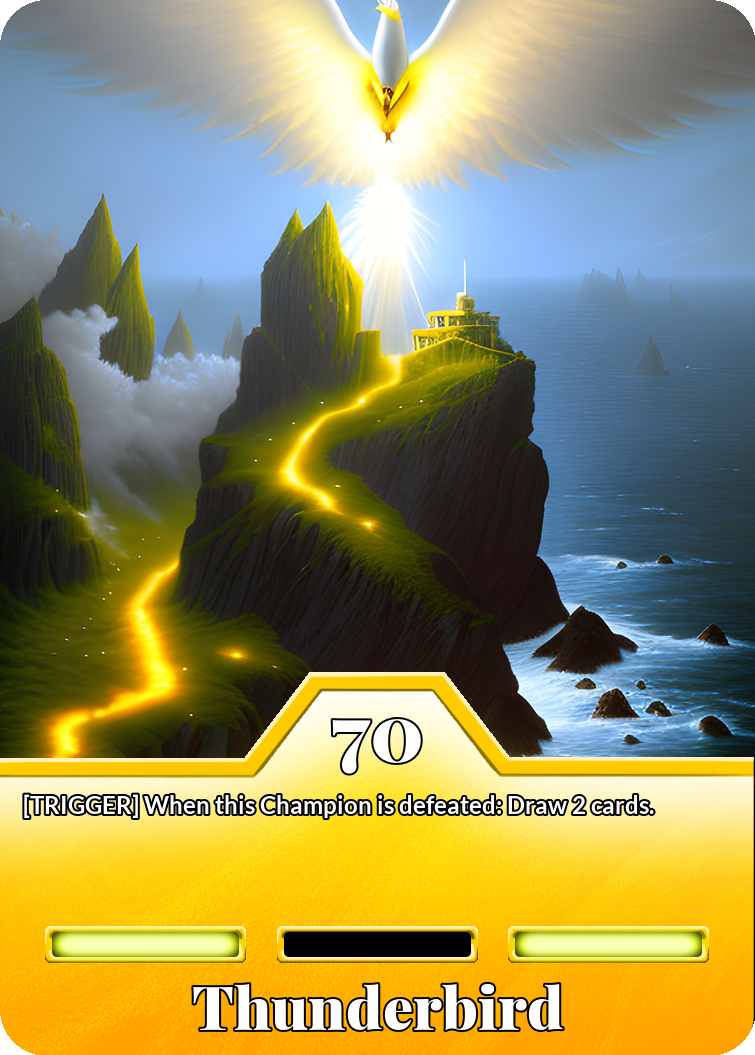
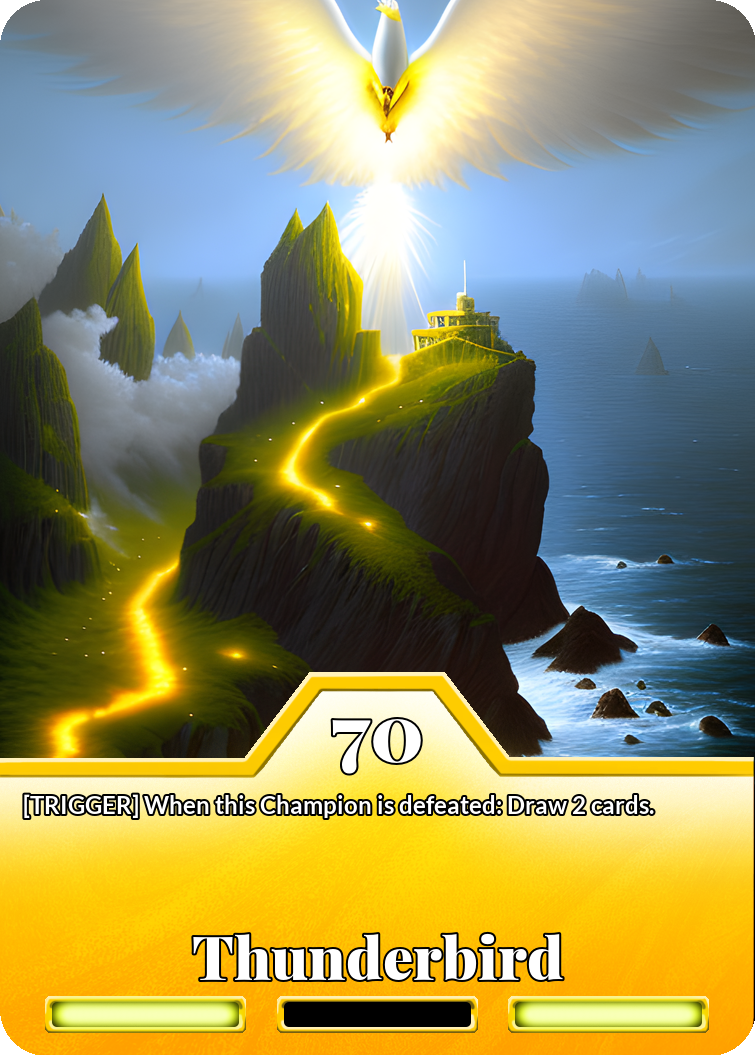
Switched layout

Changed region(s): [[0.0609, 0.8796, 0.9444, 1.0]]

diff --git a/GenerateCards.py b/GenerateCards.py
@@ -12,7 +12,7 @@ class CardCreator:
         self.crop_border = 35
         self.pixel_image_width = 177
         self.pixel_image_height = 248
-        self.name_y = 1000
+        self.name_y = 950  # 1000
         self.description_x = 58
         self.description_y = 860
         self.description_y_champions = 825
@@ -24,7 +24,7 @@ class CardCreator:
         self.y_offset_between_effects = 6
         self.stroke_width = 2
         self.corner_radius = 46
-        self.slot_y = 980
+        self.slot_y = 1050  # 980
         self.slot3_x = self.image_width * 3 / 4 + 25
         self.slot2_x = self.image_width / 2
         self.slot1_x = self.image_width / 4 - 25
@@ -544,7 +544,7 @@ list_of_frames = [
     "fire-middle",
 ]
 # Create printable versions of art
-
+"""
 for path in champion_json_paths:
     with open(f"card_json/{path}.json", "r", encoding="utf-8") as json_file:
         loaded_json = json.load(json_file)
@@ -560,7 +560,7 @@ for path in equipment_json_paths:
         loaded_json = json.load(json_file)
     for card in loaded_json["cards"]:
         Creator.create_print_sized_images(card["card_name"], card["artwork"])
-
+"""
 # Create Digital Cards
 
 for path in champion_json_paths:
@@ -571,6 +571,7 @@ for path in champion_json_paths:
         Creator.generate_champion_card(card).save(
             "finished_cards/Champions/" + card["card_name"] + "_card.png", "PNG"
         )
+"""
 for path in spell_json_paths:
     with open(f"card_json/{path}.json", "r", encoding="utf-8") as json_file:
         loaded_json = json.load(json_file)
@@ -587,9 +588,9 @@ for path in equipment_json_paths:
         Creator.generate_equipment_or_spell_card(card).save(
             f"finished_cards/{card["type"]}/{card["card_name"]}_card.png", "PNG"
         )
-
+"""
 # Create Printable Cards
-
+"""
 for path in champion_json_paths:
     with open(f"card_json/{path}.json", "r", encoding="utf-8") as json_file:
         loaded_json = json.load(json_file)
@@ -616,7 +617,7 @@ for path in equipment_json_paths:
             f"finished_cards/printable/{card["type"]}/{card["card_name"]}_card.png",
             "PNG",
         )
-
+"""
 # Create pixel art versions of artwork
 """
 for path in champion_json_paths:
